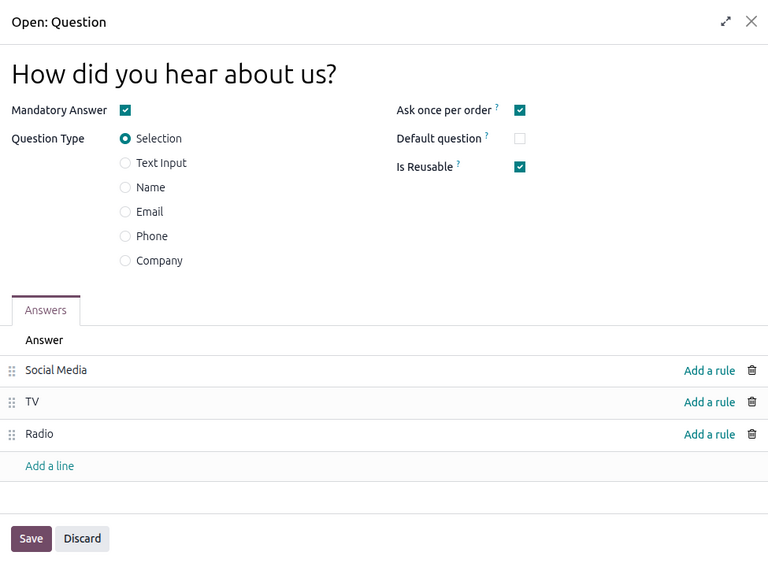
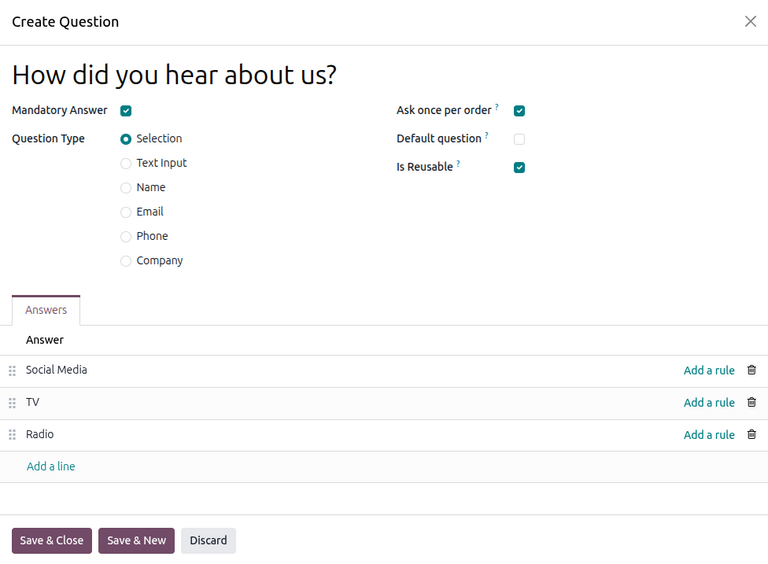
[IMP] Events: Update Create events page 19.0
closes odoo/documentation#19586

diff --git a/content/applications/marketing/events/event_setup/create_events.rst b/content/applications/marketing/events/event_setup/create_events.rst
@@ -15,10 +15,10 @@ events, selling registration tickets to attendees, and generating leads using cu
 Dashboard
 =========
 
-To create an event, navigate to the :guilabel:`Events app` to land on the dashboard. By default, the
-:guilabel:`Events` dashboard uses the :icon:`oi-view-kanban` :guilabel:`(Kanban)` view, which
-showcases all events in the database in their respective pipeline stages. Other views can be set
-using the buttons in the upper-right corner.
+To create an event, navigate to the :menuselection:`Events app` to land on the dashboard. By
+default, the :guilabel:`Events` dashboard uses the :icon:`oi-view-kanban` :guilabel:`(Kanban)` view,
+which showcases all events in the database in their respective pipeline stages. Other views can be
+set using the buttons at the top.
 
 Each event card displays the name of the event, its scheduled date, location, number of expected
 :guilabel:`Attendees`, any scheduled activities related to the event, and the responsible event
@@ -29,32 +29,31 @@ The default stages in the :guilabel:`Kanban` view are :guilabel:`New`, :guilabel
 the pipeline.
 
 .. note::
-   The :guilabel:`Ended` stage is folded by default and located to the right of the other stages.
+   The :guilabel:`Ended` stage is folded by default and located at the end of the dashboard, next to
+   the final stage.
 
 .. image:: create_events/kanban-dashboard.png
    :alt: Overview of Events dashboard with the Kanban view in Odoo Events.
 
-To add a new stage, click the :icon:`fa-plus` :guilabel:`Add Stage` button on the right, enter a
-name for the stage, then click :icon:`fa-check` :guilabel:`(Add)` to add the stage or
-:icon:`fa-times` :guilabel:`(Remove)` to cancel.
+To add a new stage, click the :icon:`fa-angle-double-right` :guilabel:`Add Stage` button at the end
+of the dashboard. Enter a name for the stage, then click :icon:`fa-check` :guilabel:`(Add)` to add
+the stage or :icon:`fa-times` :guilabel:`(Remove)` to cancel.
 
 .. _events/event-form:
 
 Add a new event
 ===============
 
-Events can be created by going to the :menuselection:`Events` app, on the :icon:`oi-view-kanban`
-:guilabel:`(Kanban)`, :icon:`oi-view-list` :guilabel:`(List)`, or :icon:`fa-tasks`
-:guilabel:`(Gantt)` views. Then, click the :guilabel:`New` button in the upper-left corner of the
-dashboard to open up a new event form.
+Events can be created by opening the :menuselection:`Events app` and clicking :guilabel:`New`. This
+opens a new *Events* form.
 
 .. image:: create_events/event-form.png
    :alt: Typical event template in the Odoo Events application.
 
-At the top of the event form are a series of smart buttons related to various event metrics. These
-auto-populate with data once attendees begin to register, when booths and sponsors sign on for the
-event, when the event takes place, and so on. These smart buttons can be clicked to navigate to the
-event's related pages to modify any details and perform any desired actions.
+At the top of the event form are a series of clickable smart buttons to view details about event
+metrics, including attendee registrations, :doc:`booths <../promote_monetize/event_booths>`, ticket
+:doc:`sales <../promote_monetize/sell_tickets>`, event :doc:`tracks
+<../attendee_experience/event_tracks>`, and :doc:`sponsors <../promote_monetize/event_sponsors>`.
 
 Beneath the smart buttons is the event form, which contains various fields and clickable tabs to
 configure the necessary details of the event.
@@ -69,13 +68,12 @@ To start, enter some basic information about the event in the following fields:
 - :guilabel:`Language`: The chosen language for all event communications.
 
 .. note::
-   To the right of the entered :guilabel:`Event Name`, there is a language tooltip, represented by
-   an abbreviated language indicator (e.g., `EN`). When clicked, a :guilabel:`Translate name`
-   pop-up window appears, displaying various preconfigured language translation options available in
-   the database.
+   Next to the entered :guilabel:`Event Name`, there is a language tooltip, represented by an
+   abbreviated language indicator (e.g., `EN`). When clicked, a *Translate: name* pop-up window
+   appears, displaying various preconfigured language translation options available in the database.
 
 Alternatively, to populate the event form from an event template, select an option in the
-:guilabel:`Template` drop-down menu. To learn more, see the :doc:`event_templates` documentation.
+:doc:`Template <event_templates>` drop-down menu.
 
 Additionally, add any corresponding tags (e.g., `Online`, `Conference`) for the event in the
 :guilabel:`Tags` field. Multiple tags can be added per event.
@@ -92,15 +90,26 @@ fields:
 - :guilabel:`Company`: The specific company in the database to which the event is related. This
   field **only** appears if working in a multi-company environment. This field is auto-populated but
   modifiable. It is **required**.
-- :guilabel:`Website`: The specific website in the database on which the event is published. If this
-  field is left blank, the event can be published on **all** websites in the database. To learn
-  more, refer to the :doc:`Multiple websites
-  <../../../websites/website/configuration/multi_website>` documentation.
+- :guilabel:`Website`: The specific :doc:`website
+  <../../../websites/website/configuration/multi_website>` in the database on which the event is
+  published. If this field is left blank, the event can be published on **all** websites in the
+  database.
+- :guilabel:`Visibility`: The visibility of the event on the specified :guilabel:`Website` and in
+  searches. The following options can be specified:
+
+  - :guilabel:`Public`: The event is searchable and visible to **all** website visitors.
+  - :guilabel:`Via a Link`: The event is visible **only** to visitors with a direct URL or
+    already-registered participants.
+  - :guilabel:`Logged Users`: The event is visible **only** to logged-in visitors or visitors with a
+    direct URL.
+
 - :guilabel:`Venue`: The event venue location. This field pulls information from the **Contacts**
   application. Alternatively, the information can be entered manually.
 
-To limit the number of registrations for the event, check the :guilabel:`Limit Registrations` and
-enter the maximum number of attendees allowed in the resulting field.
+To limit the number of registrations for the event, select :guilabel:`Limit Registrations` and enter
+the maximum number of attendees allowed in the resulting field.
+
+.. _events/additional-event-configs:
 
 Additional event configurations
 ===============================
@@ -113,65 +122,64 @@ customization.
 Tickets tab
 -----------
 
-In the :guilabel:`Tickets` tab of the event form, create custom registration tickets and ticket
-tiers for events.
+In the *Tickets* tab of the event form, create custom registration tickets and ticket tiers for
+events.
 
 .. image:: create_events/tickets-tab.png
    :alt: A typical tickets tab on an event form in the Odoo Events application.
 
-To create a ticket, click :guilabel:`Add a line` in the :guilabel:`Tickets` tab. In the
-:guilabel:`Product` field, either select the preconfigured :guilabel:`Event Registration` product,
-or create a new one by typing in the name of the new event registration product and then selecting
-either :guilabel:`Create` or :guilabel:`Create and edit...` from the resulting drop-down menu. Then,
-enter a name for the ticket (e.g. `Basic Ticket` or `VIP`) in the :guilabel:`Name` field.
+To create a ticket, click :guilabel:`Add a line` in the *Tickets* tab. In the :guilabel:`Product`
+field, either select the preconfigured :guilabel:`Event Registration` product, or create a new one
+by typing in the name of the new event registration product and then selecting either
+:guilabel:`Create` or :guilabel:`Create and edit...` from the resulting drop-down menu.
+
+Then, enter a name for the ticket (e.g., `Basic Ticket` or `VIP`) in the :guilabel:`Name` field.
 
 .. important::
-   In order for an event registration product to be selectable in the :guilabel:`Tickets` tab, the
-   event registration :guilabel:`Product Type` **must** be set to :guilabel:`Service` and the
+   In order for an event registration product to be selectable in the *Tickets* tab, the event
+   registration :guilabel:`Product Type` **must** be set to :guilabel:`Service` and the
    :guilabel:`Create on Order` field **must** be set to :guilabel:`Event Registration`.
 
 .. tip::
-   Existing event registration products can be modified directly from this field as well by clicking
-   the :icon:`oi-arrow-right` :guilabel:`(right arrow)` icon located beside the event registration
-   product. Doing so reveals that product's form. If the **Inventory** application is installed,
-   additional choices are available to customize for the product.
+   Existing event registration products can be modified directly from the :guilabel:`Product` field
+   by clicking the :icon:`oi-arrow-right` :guilabel:`(right arrow)` icon next to the product. Doing
+   so reveals that product's form. If the **Inventory** application is installed, additional choices
+   are available to customize for the product.
 
 Next, set the registration cost of the ticket in the :guilabel:`Price` field.
 
 .. note::
-   The :guilabel:`Sales Price` defined on the event registration product's product form sets the
-   default cost of a ticket. Modifying the :guilabel:`Price` of a ticket in the :guilabel:`Tickets`
-   tab sets a new registration cost of the ticket for that event.
+   The :guilabel:`Sales Price` defined on the event registration product's form sets the default
+   cost of a ticket. Modifying the :guilabel:`Price` of the event ticket in the *Tickets* tab
+   overrides the ticket's default price with this new price.
 
 Next, enter the :guilabel:`Sales Start` and :guilabel:`Sales End` dates in their respective fields.
-To do that, click into the blank field to reveal a calendar pop-over. From there, select the desired
-date and time, then click :icon:`fa-check` :guilabel:`Apply`.
+To do so, click into the blank field to reveal a calendar pop-over. Then, select the desired date
+and time and click :icon:`fa-check` :guilabel:`Apply`.
 
-Then, if desired, designate a :guilabel:`Maximum` amount of that specific ticket that can be sold.
+Optionally, designate a :guilabel:`Maximum` amount of the ticket that can be sold.
 
-The :guilabel:`Registration` column populates with the number of tickets that are sold.
+As attendees register, the :guilabel:`Registration` column automatically populates with the number
+of tickets sold.
 
-To delete any tickets from the :guilabel:`Tickets` tab, click the :icon:`fa-trash-o`
-:guilabel:`(trash can)` icon at the right in the corresponding line for the ticket that should be
-deleted.
+To delete any tickets from the *Tickets* tab, click the :icon:`fa-trash-o` :guilabel:`(trash can)`
+icon in the ticket's corresponding line.
 
 .. tip::
-   To add an optional :guilabel:`Description` column to the :guilabel:`Tickets` tab, click the
-   :icon:`oi-settings-adjust` :guilabel:`(additional options)` drop-down menu, located to the
-   far-right of the column titles.
+   To add an optional :guilabel:`Description` column to the *Tickets* tab, click the
+   :icon:`oi-settings-adjust` :guilabel:`(additional options)` drop-down menu at the end of the
+   column titles.
 
-   Then, select the checkbox beside :guilabel:`Description` from the resulting drop-down menu.
-
-   When added, the option to add brief descriptions for each event ticket appears, which can be used
-   to inform attendees of any perks or amenities that may coincide with specific ticket purchases.
+   Then, select the checkbox beside :guilabel:`Description` to add a brief description for each
+   event ticket, informing registrants about ticket details.
 
 .. _events/event-communication:
 
 Communication tab
 -----------------
 
-In the :guilabel:`Communication` tab of an event form, create various marketing communications that
-can be scheduled to be sent at specific intervals leading up to and following the event.
+In the *Communication* tab of an event form, create various marketing communications that can be
+scheduled to be sent at specific intervals leading up to and following the event.
 
 .. image:: create_events/communication-tab.png
    :alt: Typical communication tab on an event form in the Odoo Events application.
@@ -182,10 +190,9 @@ can be scheduled to be sent at specific intervals leading up to and following th
    two are email event reminders that are scheduled to be sent at different time intervals leading
    up to the event to remind the recipient of the upcoming event.
 
-To add a communication in the :guilabel:`Communication` tab, click :guilabel:`Add a line`. Then,
-select the desired type of communication from the first drop-down menu in the :guilabel:`Template`
-column. The options are: :guilabel:`Mail`, :guilabel:`SMS`, :guilabel:`Social Post`, or
-:guilabel:`WhatsApp`.
+To add a communication in the *Communication* tab, click :guilabel:`Add a line`. Then, select the
+desired type of communication from the first drop-down menu in the :guilabel:`Template` column. The
+options are: :guilabel:`Mail`, :guilabel:`SMS`, :guilabel:`Social Post`, or :guilabel:`WhatsApp`.
 
 .. important::
    The :guilabel:`Social Post` option only appears if the **Social Marketing** application is
@@ -197,8 +204,8 @@ column. The options are: :guilabel:`Mail`, :guilabel:`SMS`, :guilabel:`Social Po
 Then, select an existing email template from the second drop-down menu on the :guilabel:`Template`
 field.
 
-Next, define the :guilabel:`Interval` and :guilabel:`Unit` from their respective drop-down fields,
-letting Odoo know when the communication should be sent. The :guilabel:`Unit` options are:
+Next, define the :guilabel:`Interval` and :guilabel:`Unit` from their respective drop-down fields to
+specify when the communication should be sent. The :guilabel:`Unit` options are:
 :guilabel:`Immediately`, :guilabel:`Hours`, :guilabel:`Days`, :guilabel:`Weeks`, and
 :guilabel:`Months`.
 
@@ -210,17 +217,19 @@ Then, select one of the following options from the :guilabel:`Trigger` drop-down
 - :guilabel:`After the event ended`
 - :guilabel:`Before the event ends`
 
-The :guilabel:`(#) Sent` column populates with the number of sent communications. Next to the number
-are different icons that appear, depending on the status of that particular communication. The
-*Running* status is represented by a :icon:`fa-cogs` :guilabel:`(three gears)` icon. The *Sent*
-status is represented by a :icon:`fa-check` :guilabel:`(checkmark)` icon. Finally, the *Scheduled*
-status is represented by an :icon:`fa-hourglass-half` :guilabel:`(hourglass)` icon.
+The :guilabel:`(#) Sent` column populates with the number of sent communications, along with
+different icons indicating the status of the communication:
 
-Any number of communications can be added in the :guilabel:`Communication` tab of an event form.
+- :icon:`fa-cogs` :guilabel:`(Running)`: The communication is active and running.
+- :icon:`fa-check` :guilabel:`(Sent)`: The communications were sent and are no longer active.
+- :icon:`fa-hourglass-half` :guilabel:`(Scheduled)`: The communication is scheduled but has not been
+  deployed.
+
+Any number of communications can be added in the *Communication* tab of an event form.
 
 .. example::
    To send a confirmation email an hour after an attendee registers for an event, configure the
-   following communication:
+   communication as follows:
 
    - :guilabel:`Interval`: `1`
    - :guilabel:`Unit`: :guilabel:`Hours`
@@ -228,8 +237,8 @@ Any number of communications can be added in the :guilabel:`Communication` tab o
 
 .. note::
    Existing email templates can be modified directly from the :guilabel:`Template` drop-down menu,
-   if necessary, by clicking the :icon:`oi-arrow-right` :guilabel:`(Internal link)` icon next to the
-   template name. Doing so reveals a separate page where users can edit the :guilabel:`Content`,
+   by clicking the :icon:`oi-arrow-right` :guilabel:`(Internal link)` icon next to the template
+   name. Doing so reveals a separate page where users can edit the :guilabel:`Content`,
    :guilabel:`Email Configuration`, and :guilabel:`Settings` of that particular email template.
 
    To view and manage all email templates, activate :ref:`developer-mode` and navigate to
@@ -241,25 +250,24 @@ Any number of communications can be added in the :guilabel:`Communication` tab o
 Questions tab
 -------------
 
-In the :guilabel:`Questions` tab of an event form, users can create questionnaires to gather
-information from attendees when registering for the event.
+In the *Questions* tab of an event form, users can create questionnaires to gather information from
+attendees when registering for the event.
 
 .. image:: create_events/questions-tab.png
    :alt: Typical questions tab on an event form in the Odoo Events application.
 
 .. note::
-   By default, Odoo provides three questions in the :guilabel:`Questions` tab for every event form.
-   The default questions require registrants to provide their :guilabel:`Name`, :guilabel:`Email`,
-   and an optional :guilabel:`Phone` number.
+   By default, Odoo provides three questions in the *Questions* tab for every event form. The
+   default questions require registrants to provide their :guilabel:`Name`, :guilabel:`Email`, and
+   an optional :guilabel:`Phone` number.
 
-   The information gathered from the :guilabel:`Questions` tab can be found on the
-   :guilabel:`Attendees` dashboard, accessible via the :icon:`fa-users` :guilabel:`Attendees` smart
-   button. Odoo populates individual records that contain basic information about the registrants,
-   as well as their preferences.
+   The information gathered from the *Questions* tab can be found on the *Attendees* dashboard,
+   accessible via the :icon:`fa-users` :guilabel:`Attendees` smart button. Odoo populates individual
+   records that contain basic information about the registrants, as well as their preferences.
 
-To add a question in the :guilabel:`Questions` tab, click :guilabel:`Add a line`. Doing so reveals
-an *Add: Question* pop-up window. From here, users can select previously configured questions or
-click :guilabel:`New` to create a new one. Doing so opens a new *Create Question* pop-up window.
+To add a question in the *Questions* tab, click :guilabel:`Add a line`. Doing so reveals an *Add:
+Question* pop-up window. From here, users can select previously configured questions or click
+:guilabel:`New` to create a new one. Doing so opens a new *Create Question* pop-up window.
 
 .. image:: create_events/create-question-popup.png
    :alt: The Create Question pop-up window that appears in the Odoo Events application.
@@ -292,10 +300,10 @@ If :guilabel:`Selection` was chosen as the :guilabel:`Question Type`, an *Answer
 any answers to the question under this tab by clicking :guilabel:`Add a line`.
 
 Once all the desired configurations have been entered, click :guilabel:`Save & Close` to save the
-question and return to the :guilabel:`Questions` tab on the event form. Or, click :guilabel:`Save &
-New` to save the question and configure another. To cancel, click :guilabel:`Discard`.
+question and return to the *Questions* tab on the event form. Or, click :guilabel:`Save & New` to
+save the question and configure another. To cancel, click :guilabel:`Discard`.
 
-Users can add as many questions in the :guilabel:`Questions` tab as needed.
+Users can add as many questions in the *Questions* tab as needed.
 
 .. tip::
    For :guilabel:`Selection` and :guilabel:`Text Input` types, a :icon:`fa-bar-chart`
@@ -307,8 +315,8 @@ Users can add as many questions in the :guilabel:`Questions` tab as needed.
 Notes & Documents tab
 ---------------------
 
-In the :guilabel:`Notes & Documents` tab of an event form, users can leave detailed internal notes
-and event-related instructions or information for attendees.
+In the *Notes & Documents* tab of an event form, users can leave detailed internal notes and
+event-related instructions or information for attendees.
 
 .. image:: create_events/notes-tab.png
    :alt: Typical notes tab on an event form in the Odoo Events application.
@@ -330,20 +338,23 @@ and display them on attendees' tickets.
 In the :guilabel:`Note` field, users can leave internal notes for other event employees, such as
 "to-do" lists, contact information, instructions, and so on.
 
+.. _events/create_events/publish:
+
 Publish events
 ==============
 
-Once all configurations and modifications are complete on the event form, it is time to publish the
-event on the website. Doing so makes the event visible to website visitors, and makes it possible
-for people to register for the event.
+Once all configurations and modifications are complete on the event form, the event can be published
+on the website. Doing so makes the event visible to website visitors and allows them to register for
+the event.
 
-To publish an event after all the customizations are complete, click the :icon:`fa-globe`
-:guilabel:`Go to Website` smart button at the top of the event form. Doing so reveals the event's
-web page, which can be customized like any other web page on the site, via the :guilabel:`Edit`
-button.
+To publish an event, click the :icon:`fa-globe` :guilabel:`Go to Website` smart button to open the
+event webpage. Then, toggle the :guilabel:`Unpublished` button in the header menu, changing it to a
+:guilabel:`Published` switch. The event webpage is now published and accessible by all website
+visitors.
 
-To learn more about website design functionality and options, consult the :doc:`Building block
-<../../../websites/website/web_design/building_blocks>` documentation.
+.. seealso::
+   To learn more about website design functionality and options, consult the :doc:`Building block
+   <../../../websites/website/web_design/building_blocks>` documentation.
 
 Once the event website is ready to be shared, click the red :guilabel:`Unpublished` toggle switch in
 the header menu, changing it to a green :guilabel:`Published` switch. At this point, the event web
@@ -352,17 +363,12 @@ page is published and accessible by all website visitors.
 Send event invites
 ==================
 
-To send event invites to potential attendees, navigate to the desired event form, via
-:menuselection:`Events app --> Events`, and click into the desired event. Following this, click the
-:guilabel:`Invite` button in the upper-left corner of the event form.
+To send event invites to potential attendees, navigate to the desired event form via
+:menuselection:`Events app --> Events` and click the desired event. On the event form, click the
+:guilabel:`Invite` button.
 
-Doing so reveals a blank email form to fill out, as desired. To learn more about how to create and
-customize emails like this, refer to the :ref:`Create an email <email_marketing/create_email>`
-documentation.
-
-Proceed to create and customize an email message to send as an invite to potential attendees.
-Remember to include a link to the registration page on the event website, allowing interested
-recipients to register.
+Doing so reveals a blank :ref:`email form <email_marketing/create_email>`. Customize the message by
+specifying a mailing type, subject, recipients, and the mail body.
 
 .. tip::
    Sending emails from Odoo is subject to a daily limit, which, by default, is 200. To learn more
